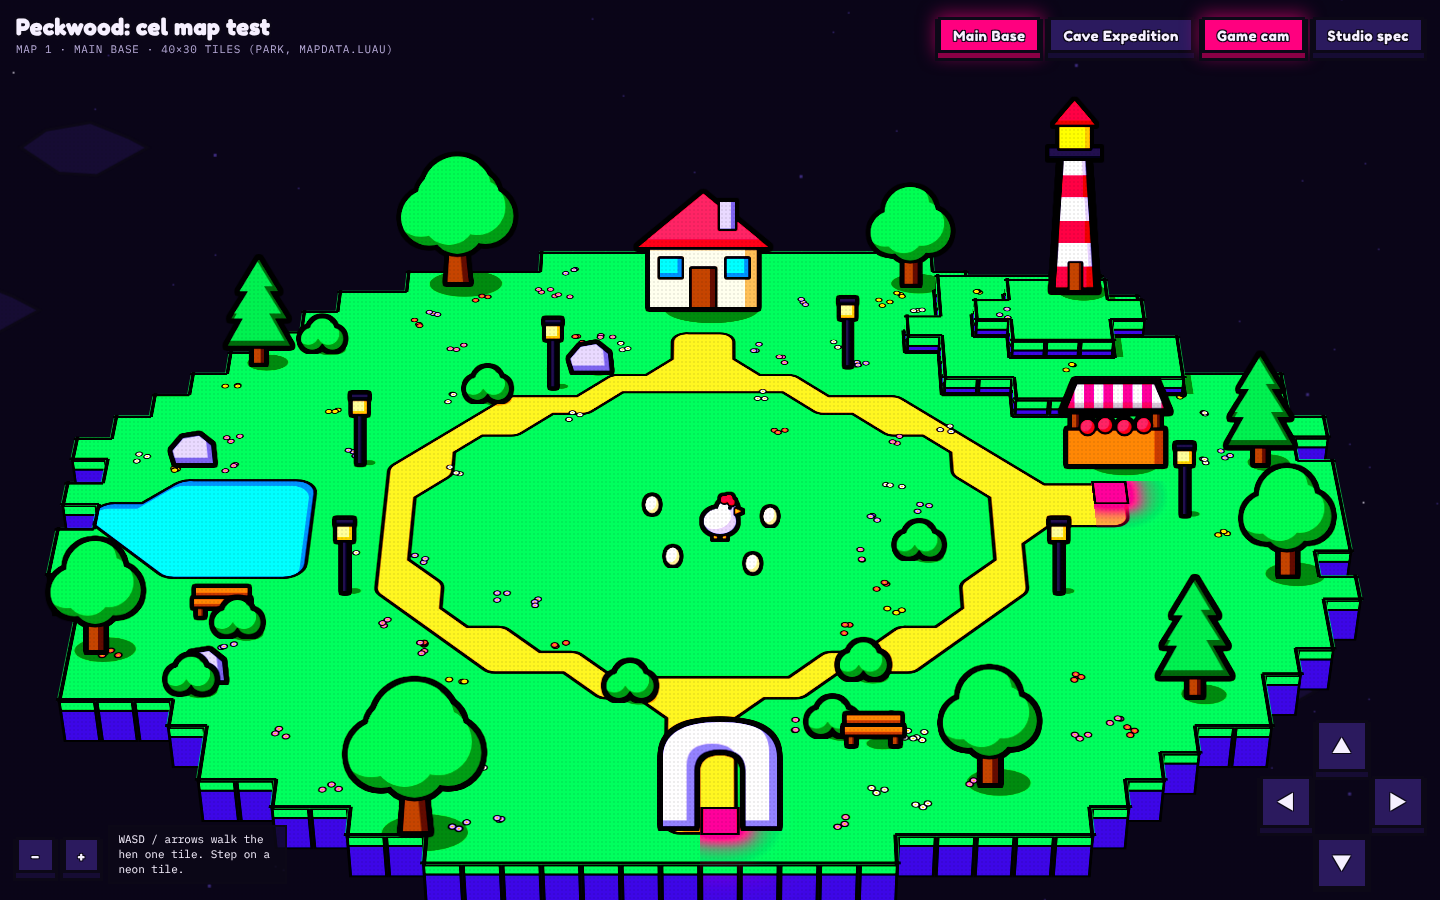
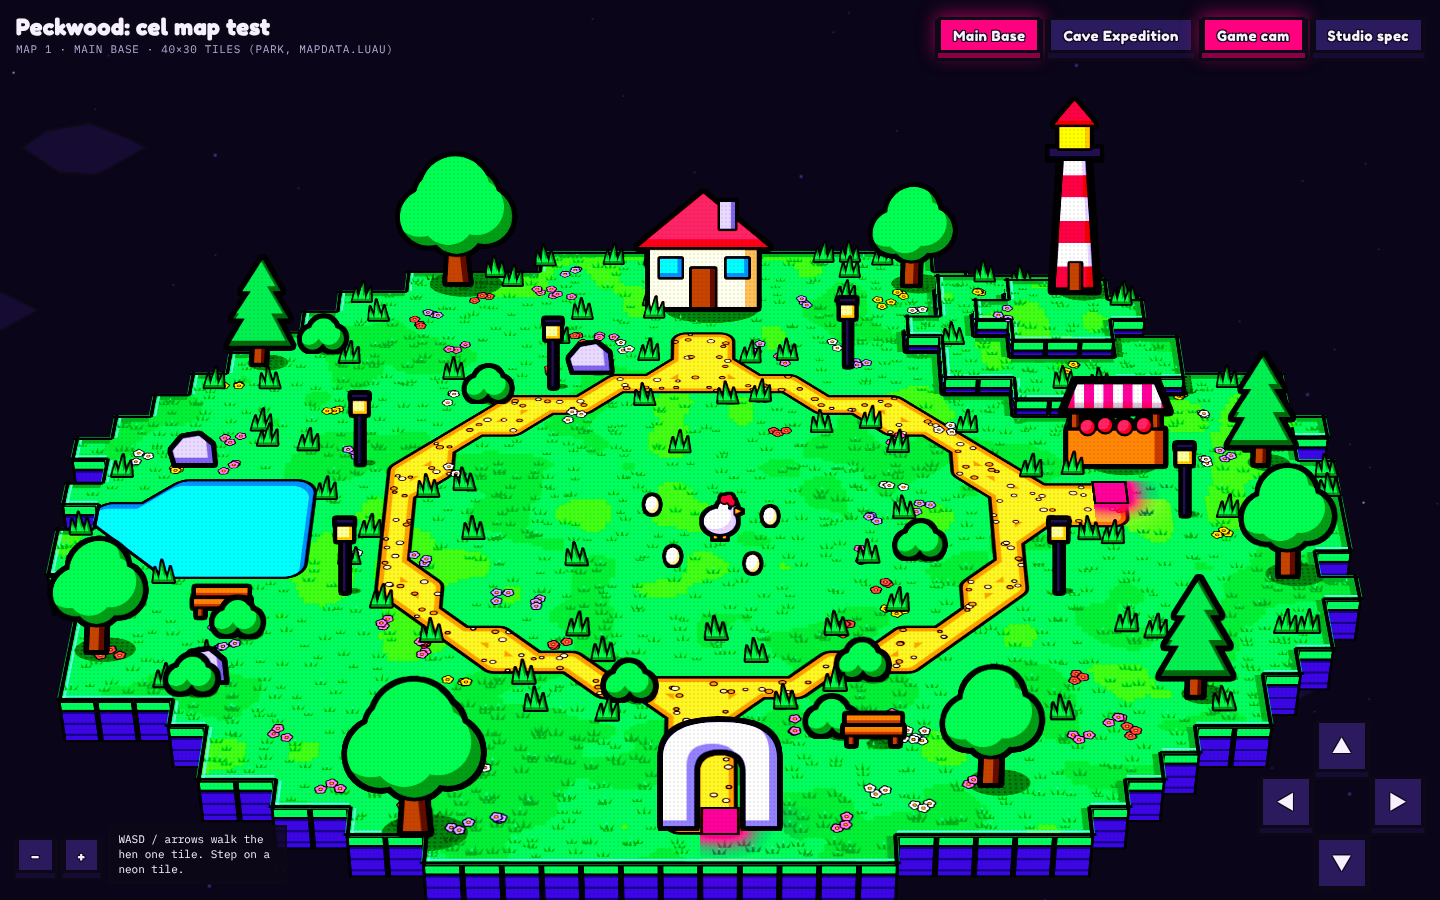
Cel map: grass surface detail (cel patches, rim, tufts, halftone shadows), path rim + pebbles, swaying foliage, cliff strata, cave cracks
Claude-Session: https://claude.ai/code/session_01UsR2kgzTEtsPpHEoQSL9gd

Changed region(s): [[0.0312, 0.28, 0.9375, 1.0]]

diff --git a/concepts/peckwood_cel_map.html b/concepts/peckwood_cel_map.html
@@ -15,6 +15,12 @@
   --ink-outline: #0c0817;
   --neon-glow: #ff007f;
   /* derived 2-step pairs (same hues, one hard shadow step each) */
+  --grass-mid: #0fbf62;      /* hard-edged dark (cool) patches */
+  --grass-sun: #74ff5e;      /* hard-edged sunlit (warm) patches */
+  --grass-light: #8affc0;    /* sunlit patches + lit lip */
+  --grass-rim: #0a9a50;      /* inner rim on shadow-side edges */
+  --tuft: #08934b;
+  --tuft-shade: #045a2d;
   --path-shadow: #d99a22;
   --water-base: #29d8ff;
   --water-shadow: #0b86c9;
@@ -72,6 +78,11 @@ button { font: inherit; color: inherit; }
   filter: drop-shadow(2px 0 0 var(--ink-outline)) drop-shadow(-2px 0 0 var(--ink-outline)) drop-shadow(0 2px 0 var(--ink-outline)) drop-shadow(0 -2px 0 var(--ink-outline)) drop-shadow(0 0 10px var(--neon-glow)) drop-shadow(0 0 22px var(--neon-glow)); }
 .card.seed.got > .art { animation: pop .36s ease-out forwards; }
 @keyframes bob { 50% { transform: translateY(-9px); } }
+/* wind: tufts and foliage lean from the base (skew keeps the ink edge crisp; no blur) */
+.card.tuft > .art { filter: none; animation: sway 2.8s ease-in-out infinite; }
+.card.sway > .art { animation: swaysoft 4.2s ease-in-out infinite; }
+@keyframes sway { 0%, 100% { transform: skewX(-7deg); } 50% { transform: skewX(6deg); } }
+@keyframes swaysoft { 0%, 100% { transform: skewX(-2deg); } 50% { transform: skewX(2.2deg); } }
 @keyframes pop { to { transform: translateY(-30px) scale(1.8); opacity: 0; } }
 
 /* emissive interactive tiles: flat neon square on the floor + high-intensity bloom shadow */
@@ -137,7 +148,7 @@ button { font: inherit; color: inherit; }
 }
 @media (prefers-reduced-motion: reduce) {
   .world, .card { transition: none; }
-  .neon, .card.seed > .art { animation: none; }
+  .neon, .card.seed > .art, .card.tuft > .art, .card.sway > .art { animation: none; }
   .card.hop > .art { animation: none; }
 }
 </style>
@@ -194,6 +205,7 @@ button { font: inherit; color: inherit; }
   <ul>
     <li><b>Ink outlines:</b> Highlight per WorldTree group (OutlineColor <code>#0c0817</code>, OutlineTransparency 0, FillTransparency 1, DepthMode Occluded; ≤ 31 live). Hero cards (hen, eggs, landmarks) also get an inverted-hull outline mesh for inner lines.</li>
     <li><b>2-step cel, no gloss:</b> SmoothPlastic only, two colours per part (base + hard shadow face). Lighting: EnvironmentDiffuseScale 0, EnvironmentSpecularScale 0, Ambient + OutdoorAmbient high so faces stay flat, Brightness 2.</li>
+    <li><b>Ground detail:</b> the grass top is one painted texture per island (EditableImage or an uploaded decal on the ground mesh): grass-base field, hard-edged grass-mid / grass-light patches from noise, a grass-rim band on the north and east edges, a lit line on the south and west edges, painted tufts. Standing tufts are small camera-facing cards that sway (CFrame skew in one batched loop).</li>
     <li><b>Hard shadows:</b> GlobalShadows <code>false</code>, CastShadow off everywhere. Each prop gets a flat ellipse (cylinder Part 0.05 thick, colour ink, Transparency 0.66) offset north-east; hill drops paint a grass-shadow band on the lower tile.</li>
     <li><b>Post:</b> ColorCorrection Contrast <code>0.4</code>, Saturation <code>0.45</code> (= CSS 140 % / 145 %).</li>
     <li><b>Neon nodes:</b> Material Neon <code>#ff007f</code> tile + PointLight (Range 10, Brightness 3) + Lighting BloomEffect (Intensity 1, Size 24, Threshold 0.95). Pulse = TweenService on the light Brightness.</li>
@@ -224,13 +236,19 @@ button { font: inherit; color: inherit; }
 'use strict';
 const css = getComputedStyle(document.documentElement);
 const tok = n => css.getPropertyValue('--' + n).trim();
-const T = 40, LEVEL = 24, CLIFF = 60, RES = 1.5;   // px per tile, px per hill level, cliff depth, canvas px per CSS px
+const T = 40, LEVEL = 24, CLIFF = 60;   // px per tile, px per hill level, cliff depth
+const RES = Math.min(2, Math.max(1.25, devicePixelRatio || 1)) * (innerWidth < 600 ? .7 : 1);   // canvas px per CSS px
 const INK = tok('ink-outline');
 const C = {};
-['bg-flat','grass-base','grass-shadow','path-base','ink-outline','neon-glow','path-shadow','water-base','water-shadow','cliff-lit','cliff-shadow',
+['bg-flat','grass-base','grass-shadow','grass-mid','grass-sun','grass-light','grass-rim','tuft','tuft-shade','path-base','ink-outline','neon-glow','path-shadow','water-base','water-shadow','cliff-lit','cliff-shadow',
  'cave-floor','cave-grout','wall-top','wall-lit','wall-shadow'].forEach(k => C[k] = tok(k));
 const hash = (i, j) => { const n = Math.sin(i * 127.1 + j * 311.7) * 43758.5453; return n - Math.floor(n); };
 const reduced = matchMedia('(prefers-reduced-motion: reduce)').matches;
+// smooth value noise (for hard-edged patch shapes: thresholded, never shaded)
+const vnoise = (x, y) => { const xi = Math.floor(x), yi = Math.floor(y), u = x - xi, v = y - yi, sm = t => t * t * (3 - 2 * t);
+  const a = hash(xi, yi), b = hash(xi + 1, yi), c = hash(xi, yi + 1), d = hash(xi + 1, yi + 1), su = sm(u), sv = sm(v);
+  return a + (b - a) * su + (c - a) * sv + (a - b - c + d) * su * sv; };
+const fbm = (x, y) => .62 * vnoise(x, y) + .38 * vnoise(x * 2.3 + 11.7, y * 2.3 + 4.1);
 
 // ---------------------------------------------------------------- map data
 // Map 1 = the real Park (roblox/src/shared/MapData.luau): 0 void, 1 grass, 2 path, 3 water. Objects in game px (16 px per tile).
@@ -292,6 +310,7 @@ const ART = {
     cel(poly('40,16 47,19 40,22'), '#ffb627', '#d97a00', 0, -1, 4) +
     `<circle cx="34" cy="15" r="2.2" fill="${INK}"/>`) },
   egg: { w: 18, h: 22, s: () => svg(18, 22, cel('<ellipse cx="9" cy="12" rx="7.5" ry="9.5"/>', '#fffbea', '#e2d4a6', -3, -3, 4)) },
+  tuft: { w: 30, h: 26, s: () => svg(30, 26, cel(poly('4,25 7,9 11,25') + poly('10,25 15,1 20,25') + poly('19,25 24,8 27,25'), '#22d977', '#078a46', -3, -3, 4)) },
   seed: { w: 26, h: 34, s: () => svg(26, 34, cel(poly('13,2 24,17 13,32 2,17'), '#ff5aa8', '#c20062', -4, -4, 5) + `<polygon points="10,9 13,5 15,9 12,14" fill="#ffe3f1"/>`) },
 };
 const artCache = {};
@@ -398,22 +417,61 @@ function buildBase() {
     g.fillStyle = C['grass-base'];
     for (const [i, j] of at) g.fillRect(i * T - .5, j * T - .5, T + 1, T + 1);
     // shadow shapes on this level: props standing here (ellipse thrown north-east) + bands under taller neighbours
-    const shadowShapes = (ctx) => {
-      ctx.beginPath();
-      for (const p of props) if (p.h === L && SH[p.k]) {
-        const [rx, ry] = SH[p.k];
-        ctx.moveTo(p.ti * T + rx * T * .55 + .25 * T, p.tj * T - .12 * T);
-        ctx.ellipse(p.ti * T + .25 * T, p.tj * T - .12 * T, rx * T * .55, ry * T * .55, 0, 0, Math.PI * 2);
-      }
-      for (const [i, j] of at) {
-        const up = (a, b) => cells[b] && cells[b][a] && cells[b][a].h > L ? cells[b][a].h - L : 0;
-        const w = up(i - 1, j), s = up(i, j + 1);   // taller tile to the west / south throws its shadow onto this one
-        if (w) ctx.rect(i * T, j * T, T * .3 * w, T);
-        if (s) ctx.rect(i * T, j * T + T - T * .3 * s, T, T * .3 * s);
-      }
-    };
+    const shadowList = [];
+    for (const p of props) if (p.h === L && SH[p.k]) { const [rx, ry] = SH[p.k]; shadowList.push({ e: 1, x: p.ti * T + .25 * T, y: p.tj * T - .12 * T, rx: rx * T * .55, ry: ry * T * .55 }); }
+    for (const [i, j] of at) {
+      const up = (a, b) => cells[b] && cells[b][a] && cells[b][a].h > L ? cells[b][a].h - L : 0;
+      const w = up(i - 1, j), s = up(i, j + 1);   // taller tile to the west / south throws its shadow onto this one
+      if (w) shadowList.push({ x: i * T, y: j * T, w: T * .3 * w, h: T });
+      if (s) shadowList.push({ x: i * T, y: j * T + T - T * .3 * s, w: T, h: T * .3 * s });
+    }
+    const shadowShapes = ctx => { ctx.beginPath(); for (const q of shadowList) { if (q.e) { ctx.moveTo(q.x + q.rx, q.y); ctx.ellipse(q.x, q.y, q.rx, q.ry, 0, 0, Math.PI * 2); } else ctx.rect(q.x, q.y, q.w, q.h); } };
+    const inShadow = (x, y) => shadowList.some(q => q.e ? ((x - q.x) / q.rx) ** 2 + ((y - q.y) / q.ry) ** 2 < 1 : x >= q.x && x < q.x + q.w && y >= q.y && y < q.y + q.h);
+    const codeAt = (x, y) => { const r = PARK.rows[Math.floor(y / T)]; return r ? r[Math.floor(x / T)] : '0'; };
+    const onTurf = (x, y, m) => codeAt(x - m, y - m) === '1' && codeAt(x + m, y - m) === '1' && codeAt(x - m, y + m) === '1' && codeAt(x + m, y + m) === '1';
+
     g.save(); g.beginPath(); for (const [i, j] of at) g.rect(i * T, j * T, T, T); g.clip();
+    // 1. two-tone patches: thresholded noise, drawn as overlapping discs = organic shapes with hard edges (no shading)
+    const dark = new Path2D(), light = new Path2D(), STEP = 6;
+    for (const [i, j] of at) for (let y = j * T + STEP / 2; y < j * T + T; y += STEP) for (let x = i * T + STEP / 2; x < i * T + T; x += STEP) {
+      const n = fbm(x / (T * 2.4), y / (T * 2.4));
+      if (n < .37) { dark.moveTo(x + 4.6, y); dark.arc(x, y, 4.6, 0, 7); }
+      else if (n > .73) { light.moveTo(x + 4, y); light.arc(x, y, 4, 0, 7); }
+    }
+    g.fillStyle = C['grass-mid']; g.fill(dark);
+    g.fillStyle = C['grass-sun']; g.fill(light);
+    // 2. island lip: dark inner rim on the shadow-side edges (N, E), a lit line on the sun side (S, W)
+    const same = (a, b) => cells[b] && cells[b][a] && cells[b][a].h === L;
+    for (const [i, j] of at) {
+      const x = i * T, y = j * T;
+      g.fillStyle = C['grass-rim'];
+      if (!same(i, j - 1)) g.fillRect(x, y, T, 11);
+      if (!same(i + 1, j)) g.fillRect(x + T - 11, y, 11, T);
+      g.fillStyle = C['grass-light'];
+      if (!same(i, j + 1)) g.fillRect(x, y + T - 8, T, 3);
+      if (!same(i - 1, j)) g.fillRect(x + 5, y, 3, T);
+    }
+    // 3. hard cast shadows + a fine halftone inside them (comic shading, never a gradient)
     g.fillStyle = C['grass-shadow']; shadowShapes(g); g.fill();
+    const dot = document.createElement('canvas'); dot.width = dot.height = 6;
+    const dg = dot.getContext('2d'); dg.fillStyle = 'rgba(12,8,23,.5)'; dg.beginPath(); dg.arc(3, 3, 1.1, 0, 7); dg.fill();
+    g.fillStyle = g.createPattern(dot, 'repeat'); shadowShapes(g); g.fill();
+    // 4. painted grass tufts: three blades each, darker in shadow, a few lit tips; denser in dark patches and near edges
+    for (const [i, j] of at) {
+      if (PARK.rows[j][i] !== '1') continue;
+      const edge = !same(i, j - 1) || !same(i + 1, j) || !same(i, j + 1) || !same(i - 1, j);
+      const nT = 2 + (edge ? 2 : 0) + (fbm(i / 2.4, j / 2.4) < .4 ? 2 : 0);
+      for (let k = 0; k < nT; k++) {
+        const x = i * T + 4 + hash(i * 3 + k, j * 1.7) * (T - 8), y = j * T + 8 + hash(i * 1.3, j * 3 + k) * (T - 10);
+        if (!onTurf(x, y, 9)) continue;
+        const sh = inShadow(x, y), sc = .8 + hash(k, i + j) * .5;
+        g.fillStyle = sh ? C['tuft-shade'] : C['tuft'];
+        for (const [dx, h, lean] of [[-3.5, 8, -3], [0, 11, 0], [3.5, 7.5, 3]]) {
+          g.beginPath(); g.moveTo(x + dx * sc - 1.8, y); g.lineTo(x + (dx + lean) * sc, y - h * sc); g.lineTo(x + dx * sc + 1.8, y); g.fill();
+        }
+        if (!sh && hash(i + k, j * 2) > .55) { g.fillStyle = C['grass-light']; g.beginPath(); g.moveTo(x - .9, y - 6 * sc); g.lineTo(x, y - 11 * sc); g.lineTo(x + .9, y - 6 * sc); g.fill(); }
+      }
+    }
     g.restore();
 
     // path + water as smooth strokes through tile centres (winding, not blocky): ink pass, base pass, shadow on top (clipped)
@@ -440,7 +498,16 @@ function buildBase() {
       const f = fillLayer.getContext('2d'); f.setTransform(g.getTransform()); f.lineCap = 'round'; f.lineJoin = 'round';
       // 2-step: whole ribbon in the shadow tone, then the lit tone shifted south-west, clipped to the ribbon = a hard
       // shadow lip along the north-east bank (water) / cast shadows only (path)
-      f.strokeStyle = want === '3' ? shade : base; f.lineWidth = width; f.stroke(p);
+      f.strokeStyle = shade; f.lineWidth = width; f.stroke(p);
+      if (want === '2') {   // lit walkway inside a hard darker border band, then pebbles + ruts
+        f.globalCompositeOperation = 'source-atop'; f.strokeStyle = base; f.lineWidth = width - 11; f.stroke(p);
+        for (const [i, j] of at) if (PARK.rows[j][i] === '2') for (let k = 0; k < 3; k++) {
+          const px = i * T + 6 + hash(i * 5 + k, j) * (T - 12), py = j * T + 6 + hash(i, j * 5 + k) * (T - 12), r = 1.8 + hash(k, i * j) * 1.8;
+          f.fillStyle = INK; f.beginPath(); f.ellipse(px, py, r + 1.3, r * .75 + 1.3, 0, 0, 7); f.fill();
+          f.fillStyle = hash(i + k, j) > .5 ? '#fff0c4' : C['path-shadow']; f.beginPath(); f.ellipse(px, py, r, r * .75, 0, 0, 7); f.fill();
+        }
+      }
+      if (want === '3') f.stroke(p);
       if (want === '3') { f.globalCompositeOperation = 'source-atop'; f.save(); f.translate(-.12 * T, .2 * T); f.strokeStyle = base; f.stroke(p); f.restore(); }
       f.globalCompositeOperation = 'source-atop'; f.fillStyle = shade; shadowShapes(f); f.fill();
       // keep ribbons inside the island (the pond touches the west coast)
@@ -456,10 +523,14 @@ function buildBase() {
       if (!mine(i, j) || PARK.rows[j][i] !== '1') return;
       const cx = x / 16 * T, cy = y / 16 * T, col = PET[Math.floor(hash(k, 3.7) * PET.length)];
       for (let q = 0; q < 3; q++) {
-        const a = hash(k, q) * 6.28, r = 5 + hash(q, k) * 5, fx = cx + Math.cos(a) * r, fy = cy + Math.sin(a) * r;
-        g.fillStyle = INK; g.beginPath(); g.arc(fx, fy, 4.6, 0, 7); g.fill();
-        g.fillStyle = col; g.beginPath(); g.arc(fx, fy, 3, 0, 7); g.fill();
-        g.fillStyle = '#ffb627'; g.beginPath(); g.arc(fx, fy, 1.2, 0, 7); g.fill();
+        const a = hash(k, q) * 6.28, r = 6 + hash(q, k) * 6, fx = cx + Math.cos(a) * r, fy = cy + Math.sin(a) * r, rot = hash(q, k * 3) * 6.28;
+        for (const [rad, fill] of [[3.9, INK], [2.5, col]]) {   // ink silhouette first, then the petals
+          g.fillStyle = fill; g.beginPath();
+          for (let pIdx = 0; pIdx < 5; pIdx++) { const pa = rot + pIdx * 1.2566, px = fx + Math.cos(pa) * 3.1, py = fy + Math.sin(pa) * 3.1; g.moveTo(px + rad, py); g.arc(px, py, rad, 0, 7); }
+          g.fill();
+        }
+        g.fillStyle = INK; g.beginPath(); g.arc(fx, fy, 2.3, 0, 7); g.fill();
+        g.fillStyle = '#ffb627'; g.beginPath(); g.arc(fx, fy, 1.5, 0, 7); g.fill();
       }
     });
   });
@@ -468,11 +539,23 @@ function buildBase() {
     const lip = lit ? C['grass-base'] : C['grass-shadow'];
     const body = lit ? C['cliff-lit'] : C['cliff-shadow'];
     const lipH = Math.min(10, drop);
-    return `linear-gradient(to bottom, ${lip} 0 ${lipH}px, ${INK} ${lipH}px ${lipH + 3}px, ${body} ${lipH + 3}px)`;
+    // hard-stop layers only: grass lip, ink line, then rock strata lines over the cliff body
+    return `linear-gradient(to bottom, ${lip} 0 ${lipH}px, ${INK} ${lipH}px ${lipH + 3}px, transparent ${lipH + 3}px), ` +
+      `repeating-linear-gradient(to bottom, transparent 0 13px, rgba(12,8,23,.4) 13px 16px), ${body}`;
   });
 
   // cards (depth sorted by the 3D buffer)
-  for (const p of props) card(p.k, p.k === 'arch' ? p.ti + .5 : p.ti, p.tj, zOf(p.h));   // the arch stands centred on its gate tile
+  const FOLIAGE = new Set(['oak', 'bigoak', 'pine', 'bush']);
+  for (const p of props) card(p.k, p.k === 'arch' ? p.ti + .5 : p.ti, p.tj, zOf(p.h), FOLIAGE.has(p.k) ? 'sway' : '');   // the arch stands centred on its gate tile
+  // standing tuft cards that sway (sparse; edges and patch borders), clear of paths, props and the yard
+  const taken = new Set(props.map(p => p.i + ',' + p.j));
+  let nTuft = 0;
+  for (let j = 0; j < rows && nTuft < 90; j++) for (let i = 0; i < cols && nTuft < 90; i++) {
+    const c = cells[j][i]; if (!c || PARK.rows[j][i] !== '1' || taken.has(i + ',' + j) || (i >= 17 && i <= 23 && j >= 12 && j <= 18)) continue;
+    const nearPath = [[1, 0], [-1, 0], [0, 1], [0, -1]].some(([a, b]) => PARK.rows[j + b] && PARK.rows[j + b][i + a] !== '1');
+    if (hash(i * 7.1, j * 5.3) < (nearPath ? .34 : .1)) { card('tuft', i + .2 + hash(i, j) * .6, j + .3 + hash(j, i) * .5, zOf(c.h), 'tuft'); nTuft++; }
+  }
+  document.querySelectorAll('.card.tuft > .art, .card.sway > .art').forEach((a, k) => a.style.animationDelay = (-hash(k, 9) * 3) + 's');
   // eggs in the yard (focus tier)
   [[18.6, 14.4], [21.9, 14.9], [19.2, 16.6], [21.4, 16.9]].forEach(([x, y]) => card('egg', x, y, 0));
 
@@ -516,6 +599,12 @@ function buildCave() {
       if (L === 0) {
         g.fillStyle = C['cave-grout']; g.fillRect(x, y, T, T);
         g.fillStyle = C['cave-floor']; g.fillRect(x + 3, y + 3, T - 6, T - 6);
+        if (hash(i * 2.3, j * 1.7) > .55) {   // a crack across the slab
+          g.strokeStyle = '#2a145e'; g.lineWidth = 2; g.beginPath(); let cx = x + 6 + hash(i, j) * 10, cy = y + 6 + hash(j, i) * 10; g.moveTo(cx, cy);
+          for (let q = 0; q < 3; q++) { cx += 5 + hash(q, i + j) * 7; cy += 4 + hash(i - q, j) * 7; g.lineTo(Math.min(cx, x + T - 5), Math.min(cy, y + T - 5)); }
+          g.stroke();
+        }
+        if (hash(i * 4.1, j * 3.3) > .6) { g.fillStyle = '#3a1d7a'; g.beginPath(); g.arc(x + 8 + hash(i + 1, j) * 24, y + 8 + hash(i, j + 1) * 24, 2.4, 0, 7); g.fill(); }
         // hard wall shadows on the floor: thrown north-east, flat
         const hw = cells[j][i - 1] && cells[j][i - 1].h, hs = cells[j + 1] && cells[j + 1][i] && cells[j + 1][i].h;
         g.fillStyle = 'rgba(12,8,23,.72)';
@@ -642,7 +731,7 @@ const openSpec = on => { spec.hidden = !on; specBtn.setAttribute('aria-expanded'
 specBtn.onclick = () => openSpec(spec.hidden);
 document.getElementById('specClose').onclick = () => openSpec(false);
 const tokTable = document.getElementById('tokTable');
-const TOKS = [['bg-flat', 'canvas / sea'], ['grass-base', 'grass top'], ['grass-shadow', 'grass hard shadow'], ['path-base', 'walkway'], ['path-shadow', 'walkway shadow'],
+const TOKS = [['bg-flat', 'canvas / sea'], ['grass-base', 'grass top'], ['grass-mid', 'grass dark patch'], ['grass-sun', 'grass sunlit patch'], ['grass-light', 'grass lit patch / lip'], ['grass-rim', 'grass edge rim'], ['tuft', 'tufts'], ['grass-shadow', 'grass hard shadow'], ['path-base', 'walkway'], ['path-shadow', 'walkway shadow'],
   ['ink-outline', 'outlines'], ['neon-glow', 'interactive nodes'], ['water-base', 'pond'], ['cliff-lit', 'cliff lit (S/W)'], ['cliff-shadow', 'cliff shadow (N/E)'],
   ['cave-floor', 'cave floor'], ['wall-top', 'cave column top'], ['wall-lit', 'column lit'], ['wall-shadow', 'column shadow']];
 tokTable.innerHTML = TOKS.map(([k, use]) => `<tr><td><span class="sw" style="background:${C[k]}"></span>${use}</td><td><code>Color3.fromHex("${C[k]}")</code></td></tr>`).join('');
